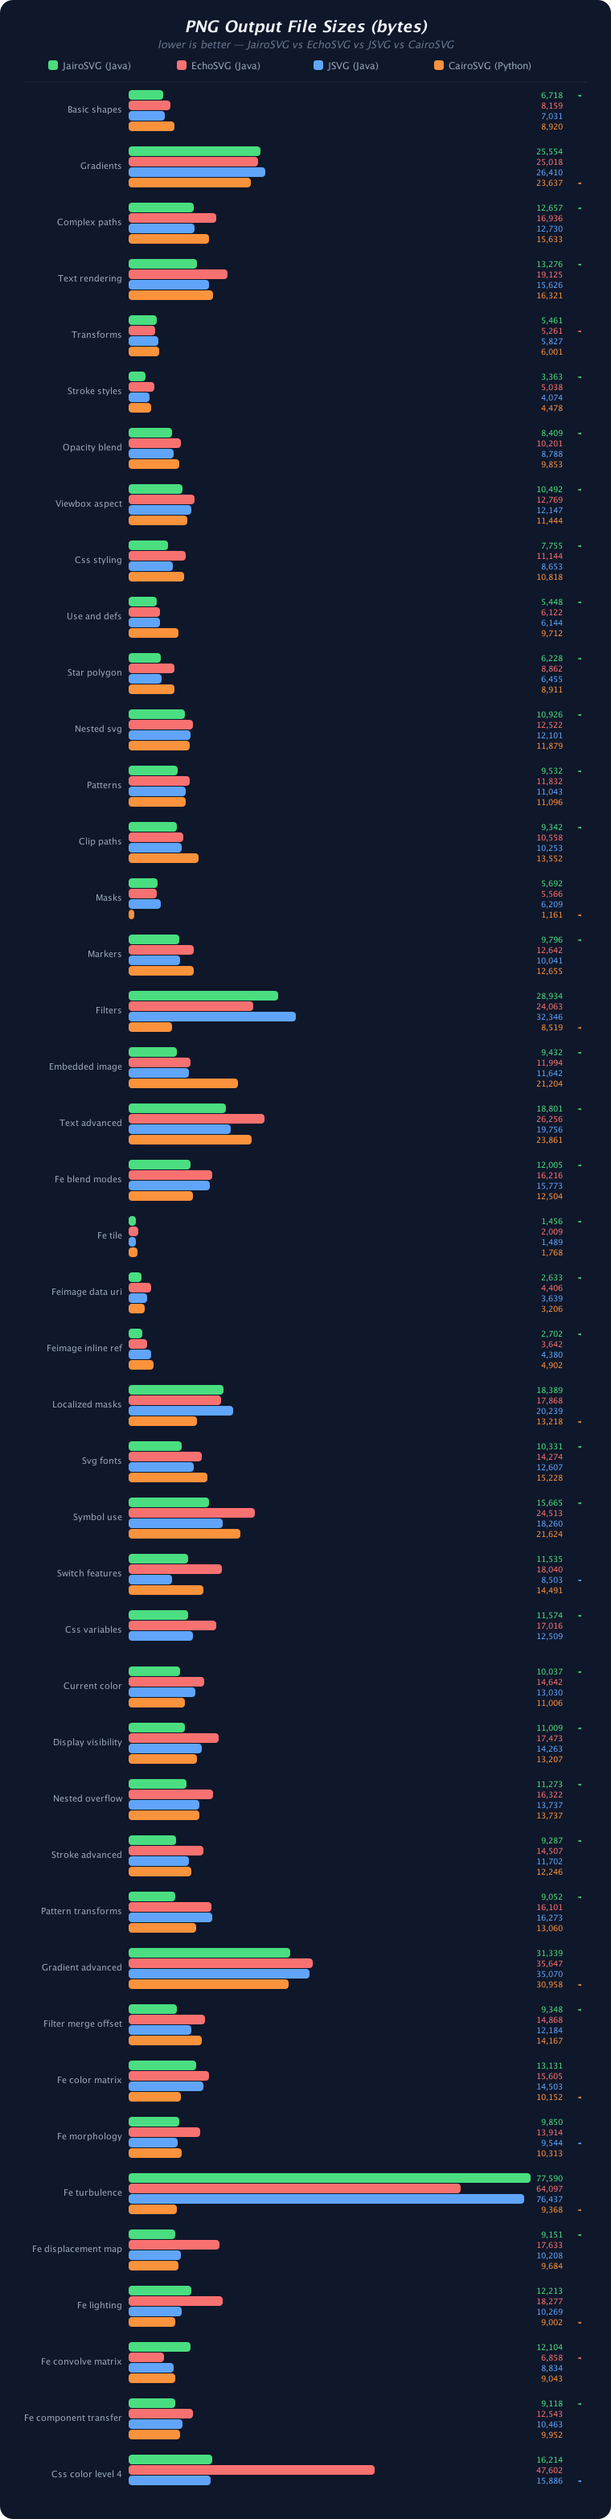
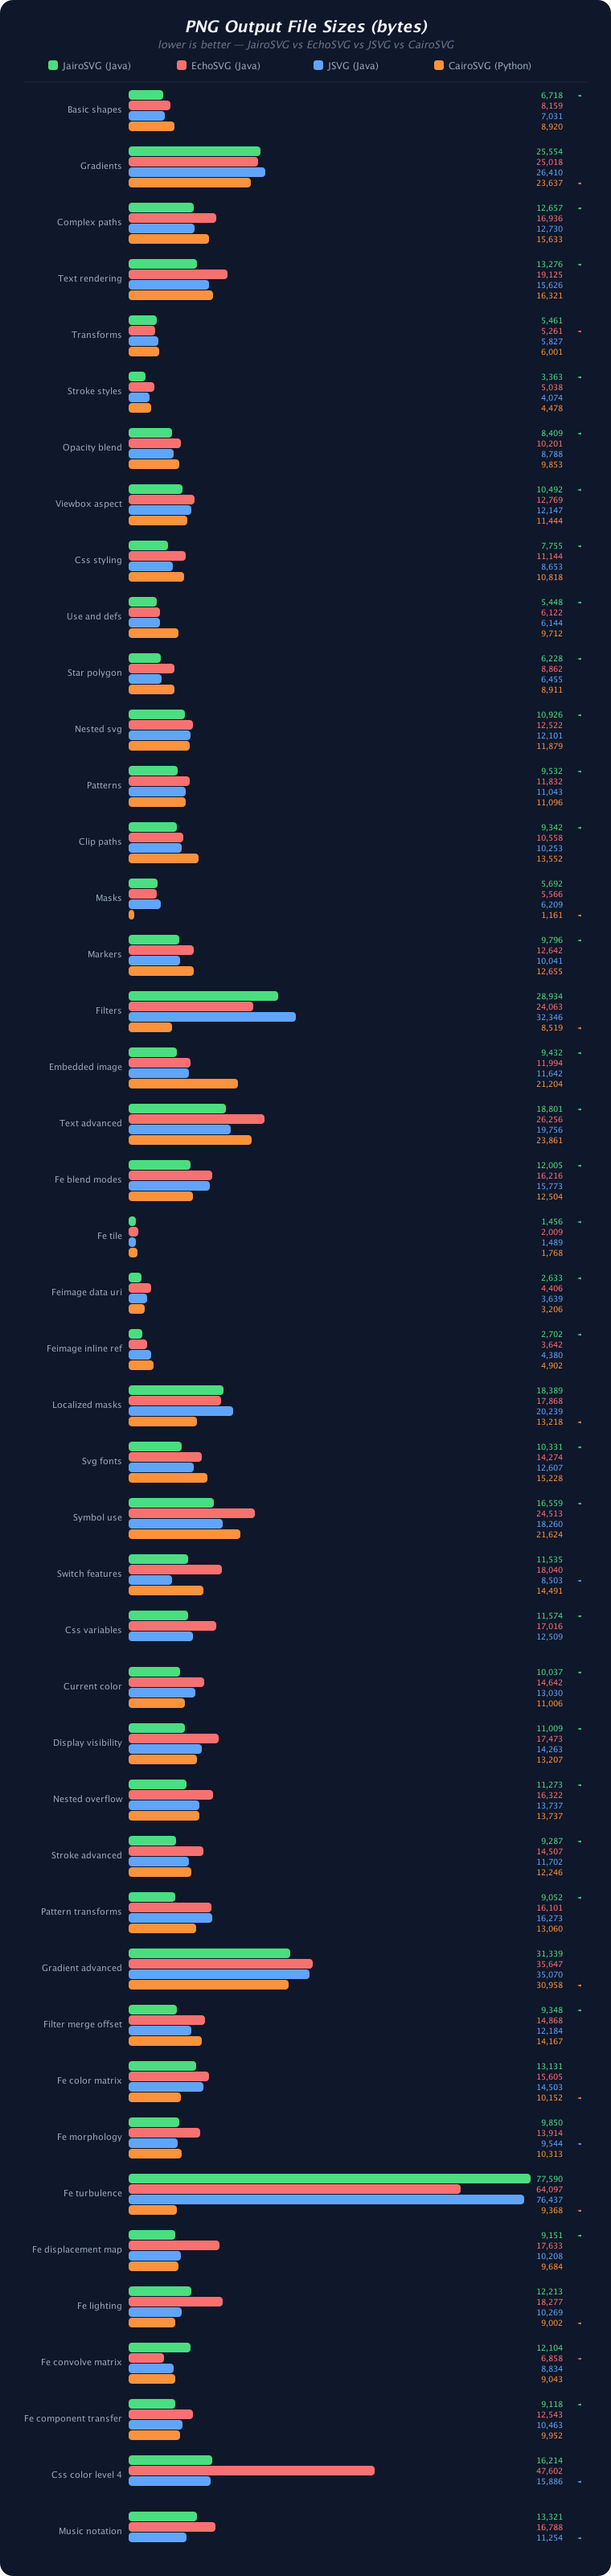
Add music notation comparison scenario and benchmark
Adds a Verovio-style engraved score (44_music_notation) exercising the
scoped descendant CSS rules from #291, with JairoSVG, EchoSVG, and JSVG
renders and benchmark times. CairoSVG was skipped for this run.

diff --git a/comparison/visual/generate.java b/comparison/visual/generate.java
@@ -245,7 +245,8 @@ public class generate {
             Map.entry("40_fe_lighting",        "`feDiffuseLighting` and `feSpecularLighting` with distant and point light sources."),
             Map.entry("41_fe_convolve_matrix", "`feConvolveMatrix` convolution effects: emboss, edge detection, sharpen, and box blur."),
             Map.entry("42_fe_component_transfer", "`feComponentTransfer` with gamma, discrete, linear, and table transfer functions."),
-            Map.entry("43_css_color_level_4", "CSS Color Level 4 syntax: HWB, Lab/LCH, OKLab/OKLCH, color(), alpha hex, and slash alpha.")
+            Map.entry("43_css_color_level_4", "CSS Color Level 4 syntax: HWB, Lab/LCH, OKLab/OKLCH, color(), alpha hex, and slash alpha."),
+            Map.entry("44_music_notation",     "Verovio-style engraved score: scoped descendant CSS (`#score path`) strokes staff lines, stems, ledger lines, and barlines; `<use>` glyphs, beams, slurs, and nested `<tspan>` text.")
     );
 
     static final Path COMPARISON_PATH = Path.of("comparison", "COMPARISON.md");

diff --git a/comparison/COMPARISON.md b/comparison/COMPARISON.md
@@ -1,6 +1,6 @@
 # SVG Rendering Comparison
 
-Side-by-side rendering, file sizes, and benchmark times for 43 SVG test cases across all four libraries.
+Side-by-side rendering, file sizes, and benchmark times for 44 SVG test cases across all four libraries.
 
 > **Note:** The **Input SVG** column is rendered live by your browser's built-in SVG engine. Use it as a reference to compare each library's PNG output against what a modern browser produces.
 
@@ -433,6 +433,16 @@ CSS Color Level 4 syntax: HWB, Lab/LCH, OKLab/OKLCH, color(), alpha hex, and sla
 | ![SVG](svg/43_css_color_level_4.svg) | ![JairoSVG](visual/png/jairosvg/43_css_color_level_4.png) | ![EchoSVG](visual/png/echosvg/43_css_color_level_4.png) | — | ![JSVG](visual/png/jsvg/43_css_color_level_4.png) |
 | **Size** | 16,214 bytes | 47,602 bytes | — | 15,886 bytes ✅ |
 | **Time** | 4.7836 ms | 127.2777 ms | — | **4.1239 ms** ✅ |
+
+### 44_music_notation
+
+Verovio-style engraved score: scoped descendant CSS (`#score path`) strokes staff lines, stems, ledger lines, and barlines; `<use>` glyphs, beams, slurs, and nested `<tspan>` text.
+
+| Input SVG | JairoSVG | EchoSVG | CairoSVG | JSVG |
+| :-------: | :------: | :-----: | :------: | :--: |
+| ![SVG](svg/44_music_notation.svg) | ![JairoSVG](visual/png/jairosvg/44_music_notation.png) | ![EchoSVG](visual/png/echosvg/44_music_notation.png) | — | ![JSVG](visual/png/jsvg/44_music_notation.png) |
+| **Size** | 13,321 bytes | 16,788 bytes | — | 11,254 bytes ✅ |
+| **Time** | 4.4743 ms | 25.1169 ms | — | **4.0830 ms** ✅ |
 
 ---
 

diff --git a/README.md b/README.md
@@ -57,7 +57,7 @@ Run the benchmark yourself: `jbang comparison/benchmark/benchmark.java`.
 
 See **[comparison/README.md](comparison/README.md)** for full benchmark results, PNG file size comparisons, and feature matrices across JairoSVG, EchoSVG, CairoSVG, and JSVG.
 
-See **[comparison/COMPARISON.md](comparison/COMPARISON.md)** for side-by-side rendered PNG comparisons, benchmark times, and file sizes across 43 SVG test cases.
+See **[comparison/COMPARISON.md](comparison/COMPARISON.md)** for side-by-side rendered PNG comparisons, benchmark times, and file sizes across 44 SVG test cases.
 
 ## Installation
 

diff --git a/comparison/README.md b/comparison/README.md
@@ -467,6 +467,7 @@ jbang comparison/visual/generate.java
 ```bash
 jbang comparison/benchmark/benchmark.java
 jbang comparison/benchmark/benchmark.java "color level 4"
+jbang comparison/benchmark/benchmark.java "music notation" --no-cairosvg
 ```
 
 ---
